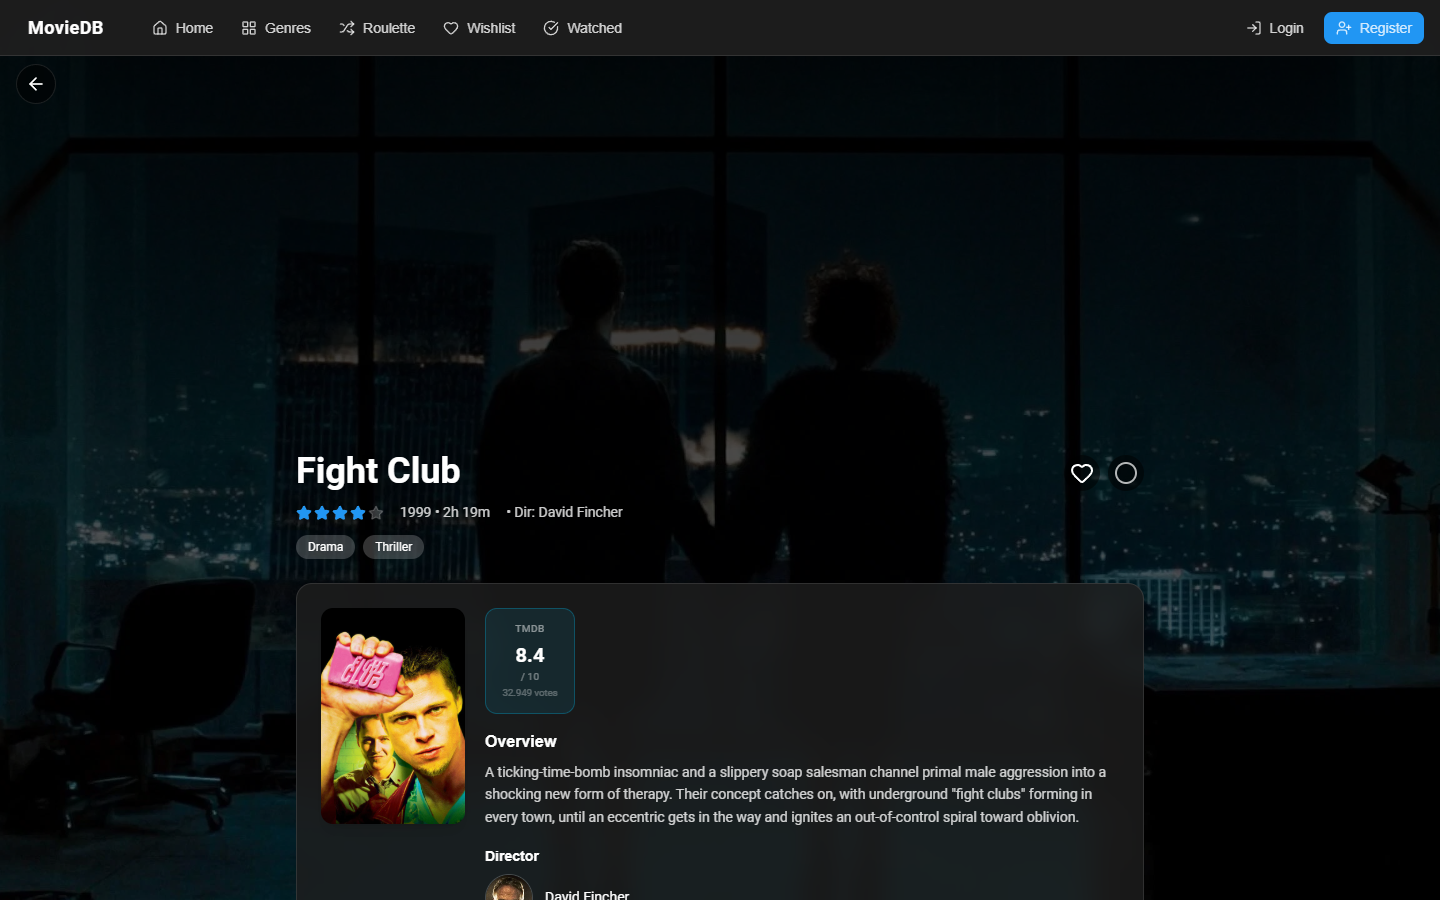
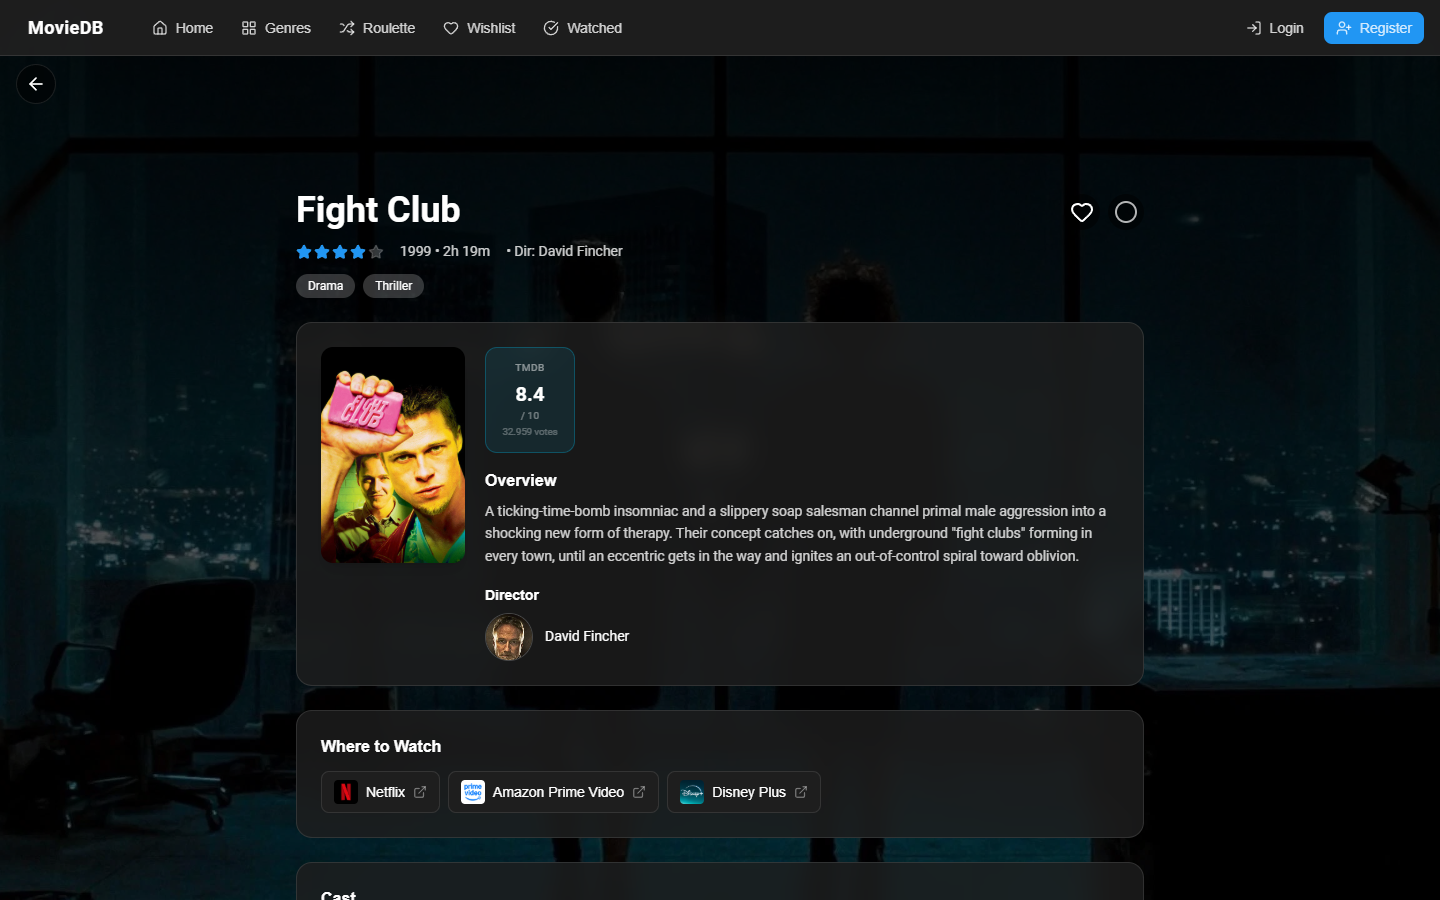
fix(details): pull the title up under the navbar
The hero margin added the navbar height on top of main's own padding and
pushed the title 35vh down. Now it just clears the back button.

diff --git a/src/components/media-details/MediaHeader.tsx b/src/components/media-details/MediaHeader.tsx
@@ -73,8 +73,8 @@ const MediaHeader: React.FC<{ media: MediaDetails }> = ({ media }) => {
         <ArrowLeft className="w-5 h-5" />
       </button>
 
-      {/* Hero area — push content below backdrop */}
-      <div className="relative z-10 mt-[calc(25vh+64px)] sm:mt-[calc(30vh+64px)] md:mt-[calc(35vh+72px)] w-full max-w-4xl mx-auto px-4 sm:px-6">
+      {/* Hero area: clear the back button, keep some backdrop visible */}
+      <div className="relative z-10 mt-16 sm:mt-20 md:mt-[14vh] w-full max-w-4xl mx-auto px-4 sm:px-6">
         {/* Title row */}
         <div className="flex items-start gap-3 mb-3">
           <h1 className="text-white text-3xl sm:text-4xl font-bold flex-1 drop-shadow">
